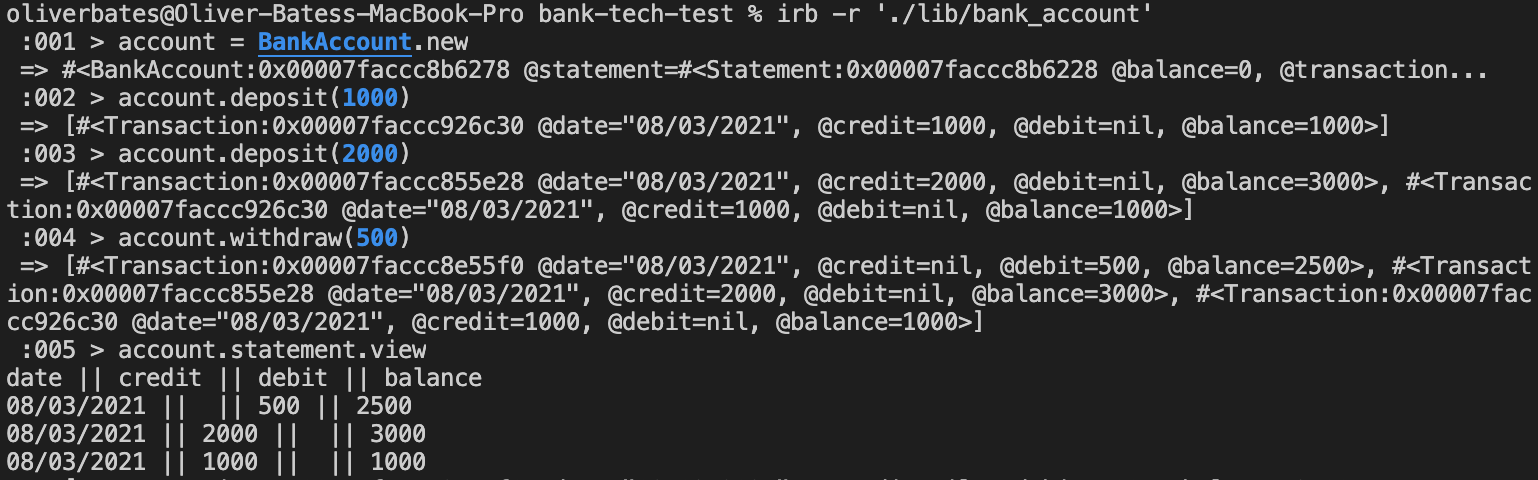
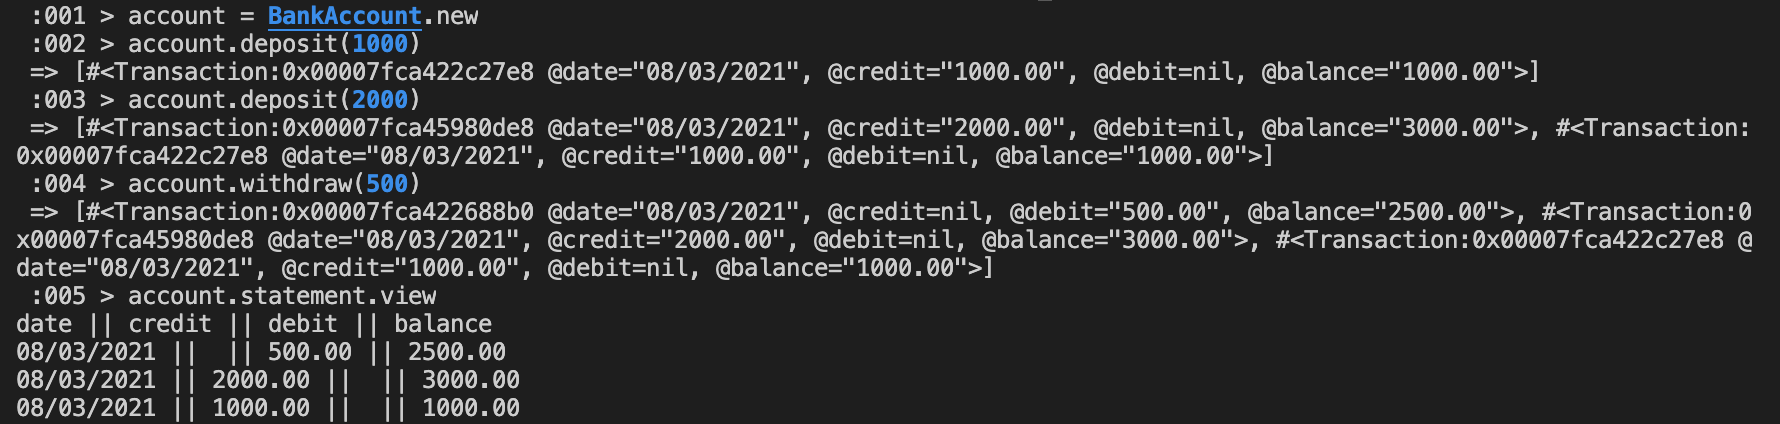
always show monetary amounts with 2d.p

Changed region(s): [[0.0, 0.0, 0.9987, 1.0], [0.593, 0.0, 0.749, 0.0613]]

diff --git a/lib/transaction.rb b/lib/transaction.rb
@@ -6,8 +6,8 @@ class Transaction
 
   def initialize(credit:, debit:, balance:, date: Time.now.strftime('%d/%m/%Y'))
     @date = date
-    @credit = credit
-    @debit = debit
-    @balance = balance
+    @credit = credit.nil? ? nil : '%.2f' % credit
+    @debit = debit.nil? ? nil : '%.2f' % debit
+    @balance = balance.nil? ? nil : '%.2f' % balance
   end
 end
